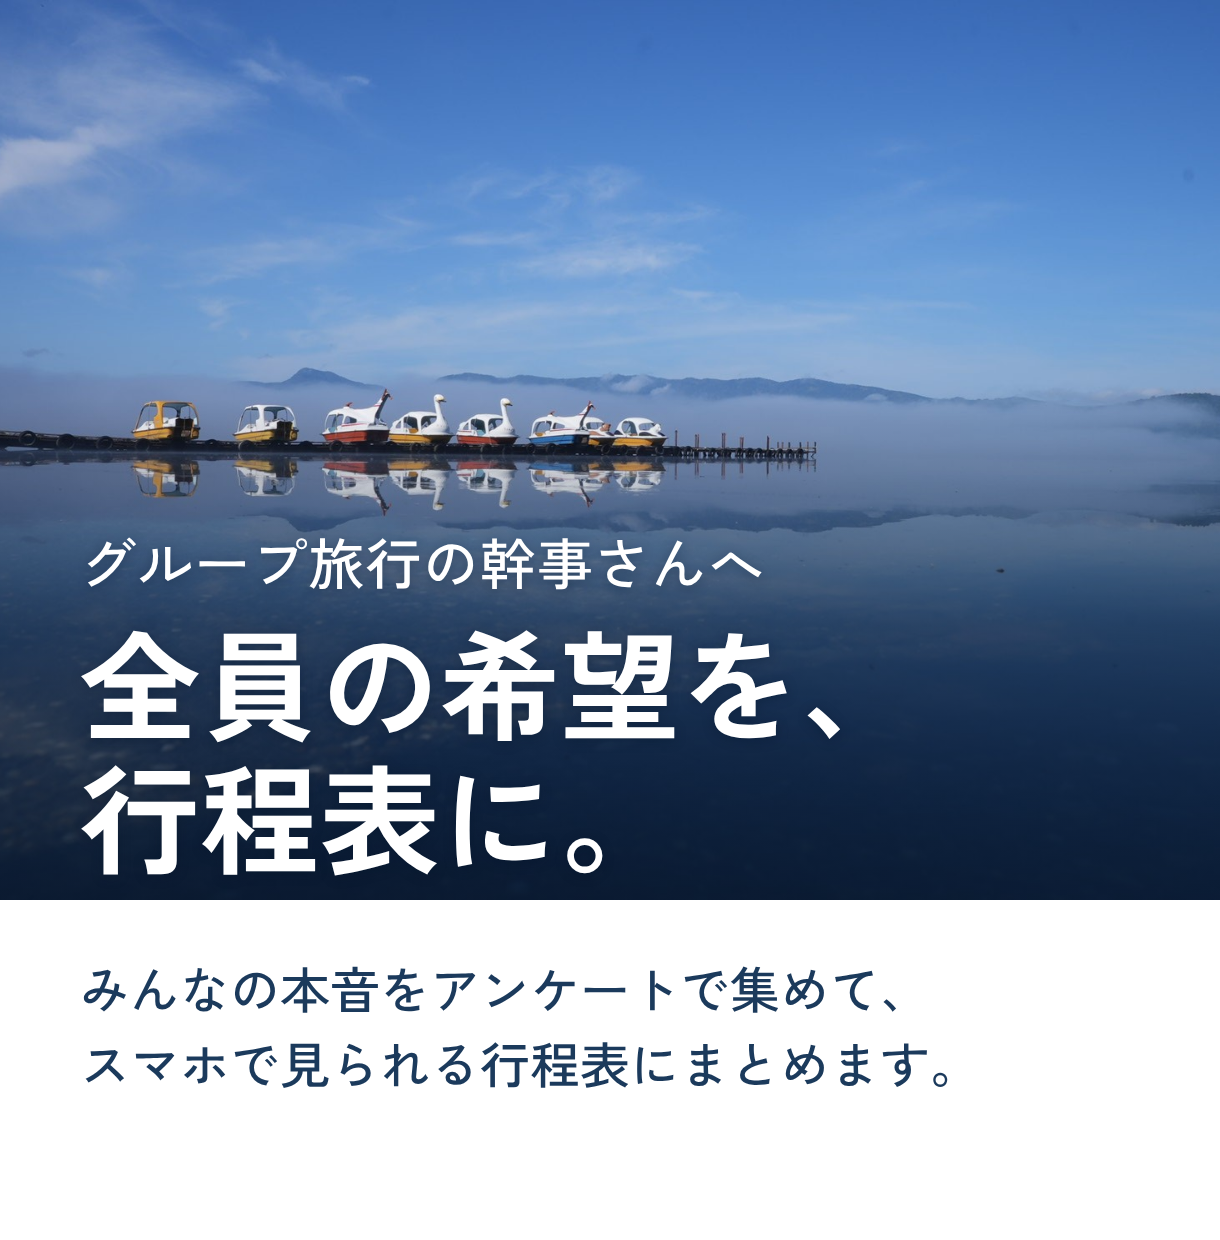
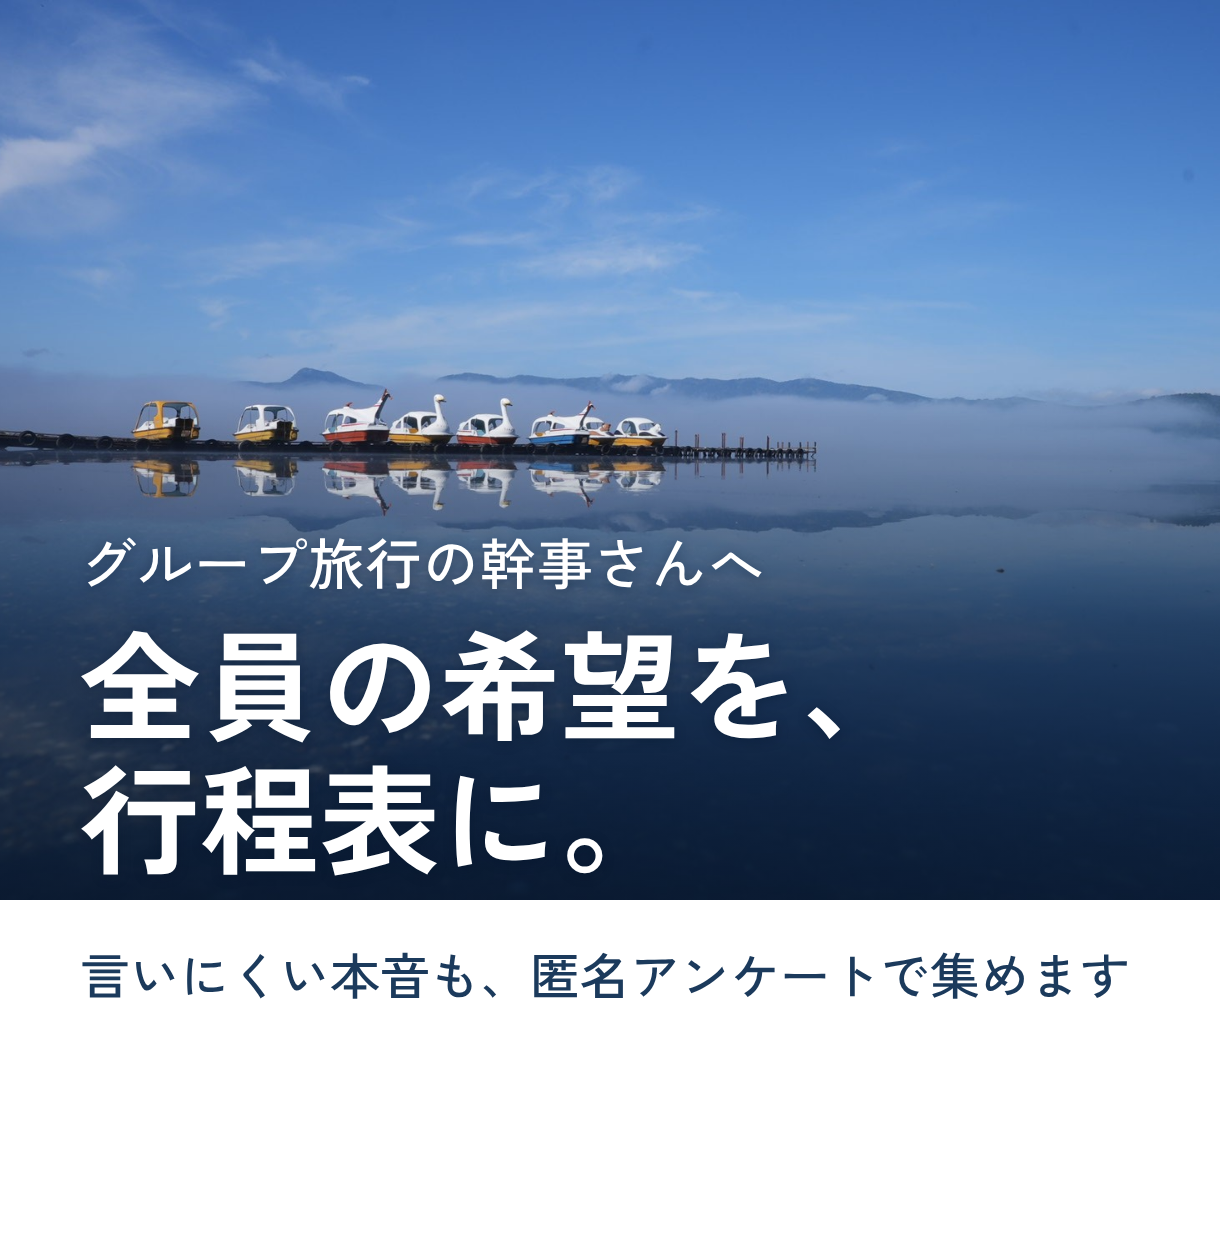
Images: keep text clear of app back/share buttons and page badge; larger small text
Claude-Session: https://claude.ai/code/session_01Hg3dHMqwrYXPhVVDrR3P56

Changed region(s): [[0.0623, 0.7661, 0.9344, 0.8887]]

diff --git a/fukugyo/05_thumbnails/coconala_v5.html b/fukugyo/05_thumbnails/coconala_v5.html
@@ -22,33 +22,33 @@
     <div style="font-size:56px;font-weight:500;letter-spacing:.02em">グループ旅行の幹事さんへ</div>
     <div style="font-size:120px;font-weight:700;line-height:1.12;margin-top:12px">全員の希望を、<br>行程表に。</div>
   </div>
-  <div style="position:absolute;left:80px;right:60px;top:950px;font-size:50px;font-weight:500;line-height:1.5">
-    みんなの本音をアンケートで集めて、<br>スマホで見られる行程表にまとめます。
+  <div style="position:absolute;left:80px;right:40px;top:938px;font-size:50px;font-weight:500;line-height:1.4;white-space:nowrap">
+    言いにくい本音も、匿名アンケートで集めます
   </div>
 </div>
 
 <!-- 2. SAMPLE : 主役＝スマホの画面 -->
 <div class="board" id="cc_sample">
-  <div style="position:absolute;left:80px;top:140px;font-size:64px;font-weight:700">こんな行程表が届きます</div>
-  <div style="position:absolute;left:80px;top:230px;font-size:30px;font-weight:400;color:var(--gray)">見本：北海道・道東 4泊5日・友人4人</div>
-  <div style="position:absolute;left:90px;top:300px;width:430px;height:800px;background:#111;border-radius:56px;padding:14px">
+  <div style="position:absolute;left:0;right:0;top:167px;text-align:center;font-size:64px;font-weight:700">こんな行程表が届きます</div>
+  <div style="position:absolute;left:0;right:0;top:257px;text-align:center;font-size:34px;font-weight:500;color:var(--gray)">見本：北海道・道東 4泊5日・友人4人</div>
+  <div style="position:absolute;left:90px;top:335px;width:430px;height:692px;background:#111;border-radius:56px;padding:14px">
     <div style="width:100%;height:100%;border-radius:44px;overflow:hidden;background:#fff"><img src="../04_sample_itinerary/web_phone_day1.png" style="display:block;width:100%"></div>
   </div>
-  <svg width="1220" height="1240" style="position:absolute;left:0;top:0" fill="none" stroke="#1b3a5c" stroke-width="2.5">
+  <svg width="1220" height="1240" style="position:absolute;left:0;top:35px" fill="none" stroke="#1b3a5c" stroke-width="2.5">
     <circle cx="180" cy="340" r="7" fill="#1b3a5c"/><polyline points="180,340 180,318 560,318 560,357 600,357"/>
     <circle cx="165" cy="661" r="7" fill="#1b3a5c"/><polyline points="165,661 560,661 560,648 600,648"/>
     <circle cx="350" cy="879" r="7" fill="#1b3a5c"/><polyline points="350,879 560,879 560,869 600,869"/>
   </svg>
-  <div style="position:absolute;left:620px;top:330px;width:540px"><div style="font-size:34px;font-weight:500">日ごとにタブで切り替え</div><div style="font-size:26px;color:var(--gray);margin-top:6px">見たい日をすぐに開けます</div></div>
-  <div style="position:absolute;left:620px;top:620px;width:540px"><div style="font-size:34px;font-weight:500">大事な時刻はひと目でわかる</div><div style="font-size:26px;color:var(--gray);margin-top:6px">当日、ここだけ見れば迷いません</div></div>
-  <div style="position:absolute;left:620px;top:842px;width:540px"><div style="font-size:34px;font-weight:500">場所名をタップすると地図へ</div><div style="font-size:26px;color:var(--gray);margin-top:6px">そのままナビとして使えます</div></div>
+  <div style="position:absolute;left:620px;top:365px;width:540px"><div style="font-size:34px;font-weight:500">日ごとにタブで切り替え</div><div style="font-size:30px;font-weight:500;color:var(--gray);margin-top:6px">見たい日をすぐに開けます</div></div>
+  <div style="position:absolute;left:620px;top:655px;width:540px"><div style="font-size:34px;font-weight:500">大事な時刻はひと目でわかる</div><div style="font-size:30px;font-weight:500;color:var(--gray);margin-top:6px">当日、ここだけ見れば迷いません</div></div>
+  <div style="position:absolute;left:620px;top:877px;width:540px"><div style="font-size:34px;font-weight:500">場所名をタップすると地図へ</div><div style="font-size:30px;font-weight:500;color:var(--gray);margin-top:6px">そのままナビとして使えます</div></div>
 </div>
 
 <!-- 3. FLOW : 主役＝見出し -->
 <div class="board" id="cc_flow">
   <div class="ph" style="left:0;top:0;bottom:0;width:620px;background-image:url(photos/road.jpg);background-position:50% 40%"></div>
-  <div style="position:absolute;left:680px;right:60px;top:150px">
-    <div style="font-size:30px;font-weight:500;color:var(--gray)">ご依頼の流れ</div>
+  <div style="position:absolute;left:680px;right:60px;top:290px">
+    <div style="font-size:34px;font-weight:500;color:var(--gray)">ご依頼の流れ</div>
     <div style="font-size:80px;font-weight:700;line-height:1.2;margin-top:10px">幹事さんが<br>やることは<br>3つ。</div>
     <div style="margin-top:64px">
       <div style="display:grid;grid-template-columns:52px 1fr;align-items:baseline;padding:26px 0;border-top:1px solid #c9d3dc;"><span style="font-size:36px;font-weight:500;color:var(--gray)">1</span><span style="font-size:36px;font-weight:500">質問に答える</span></div>
@@ -61,8 +61,8 @@
 <!-- 4. WHAT YOU GET : 主役＝見出し -->
 <div class="board" id="cc_items">
   <div class="ph" style="left:0;top:0;bottom:0;width:560px;background-image:url(photos/pond.jpg);background-size:auto 125%;background-position:38% 38%"></div>
-  <div style="position:absolute;left:615px;right:30px;top:200px">
-    <div style="font-size:30px;font-weight:500;color:var(--gray)">セット内容</div>
+  <div style="position:absolute;left:615px;right:30px;top:300px">
+    <div style="font-size:34px;font-weight:500;color:var(--gray)">セット内容</div>
     <div style="font-size:80px;font-weight:700;line-height:1.2;white-space:nowrap;margin-top:10px">お届けするもの</div>
     <div style="margin-top:56px">
       <div style="display:grid;grid-template-columns:30px 1fr;align-items:center;padding:20px 0;border-top:1px solid #c9d3dc;"><span style="width:10px;height:10px;background:#1b3a5c;transform:translateY(2px)"></span><span style="font-size:32px;font-weight:500;line-height:1.4">スマホで見るWeb版の行程表</span></div>
